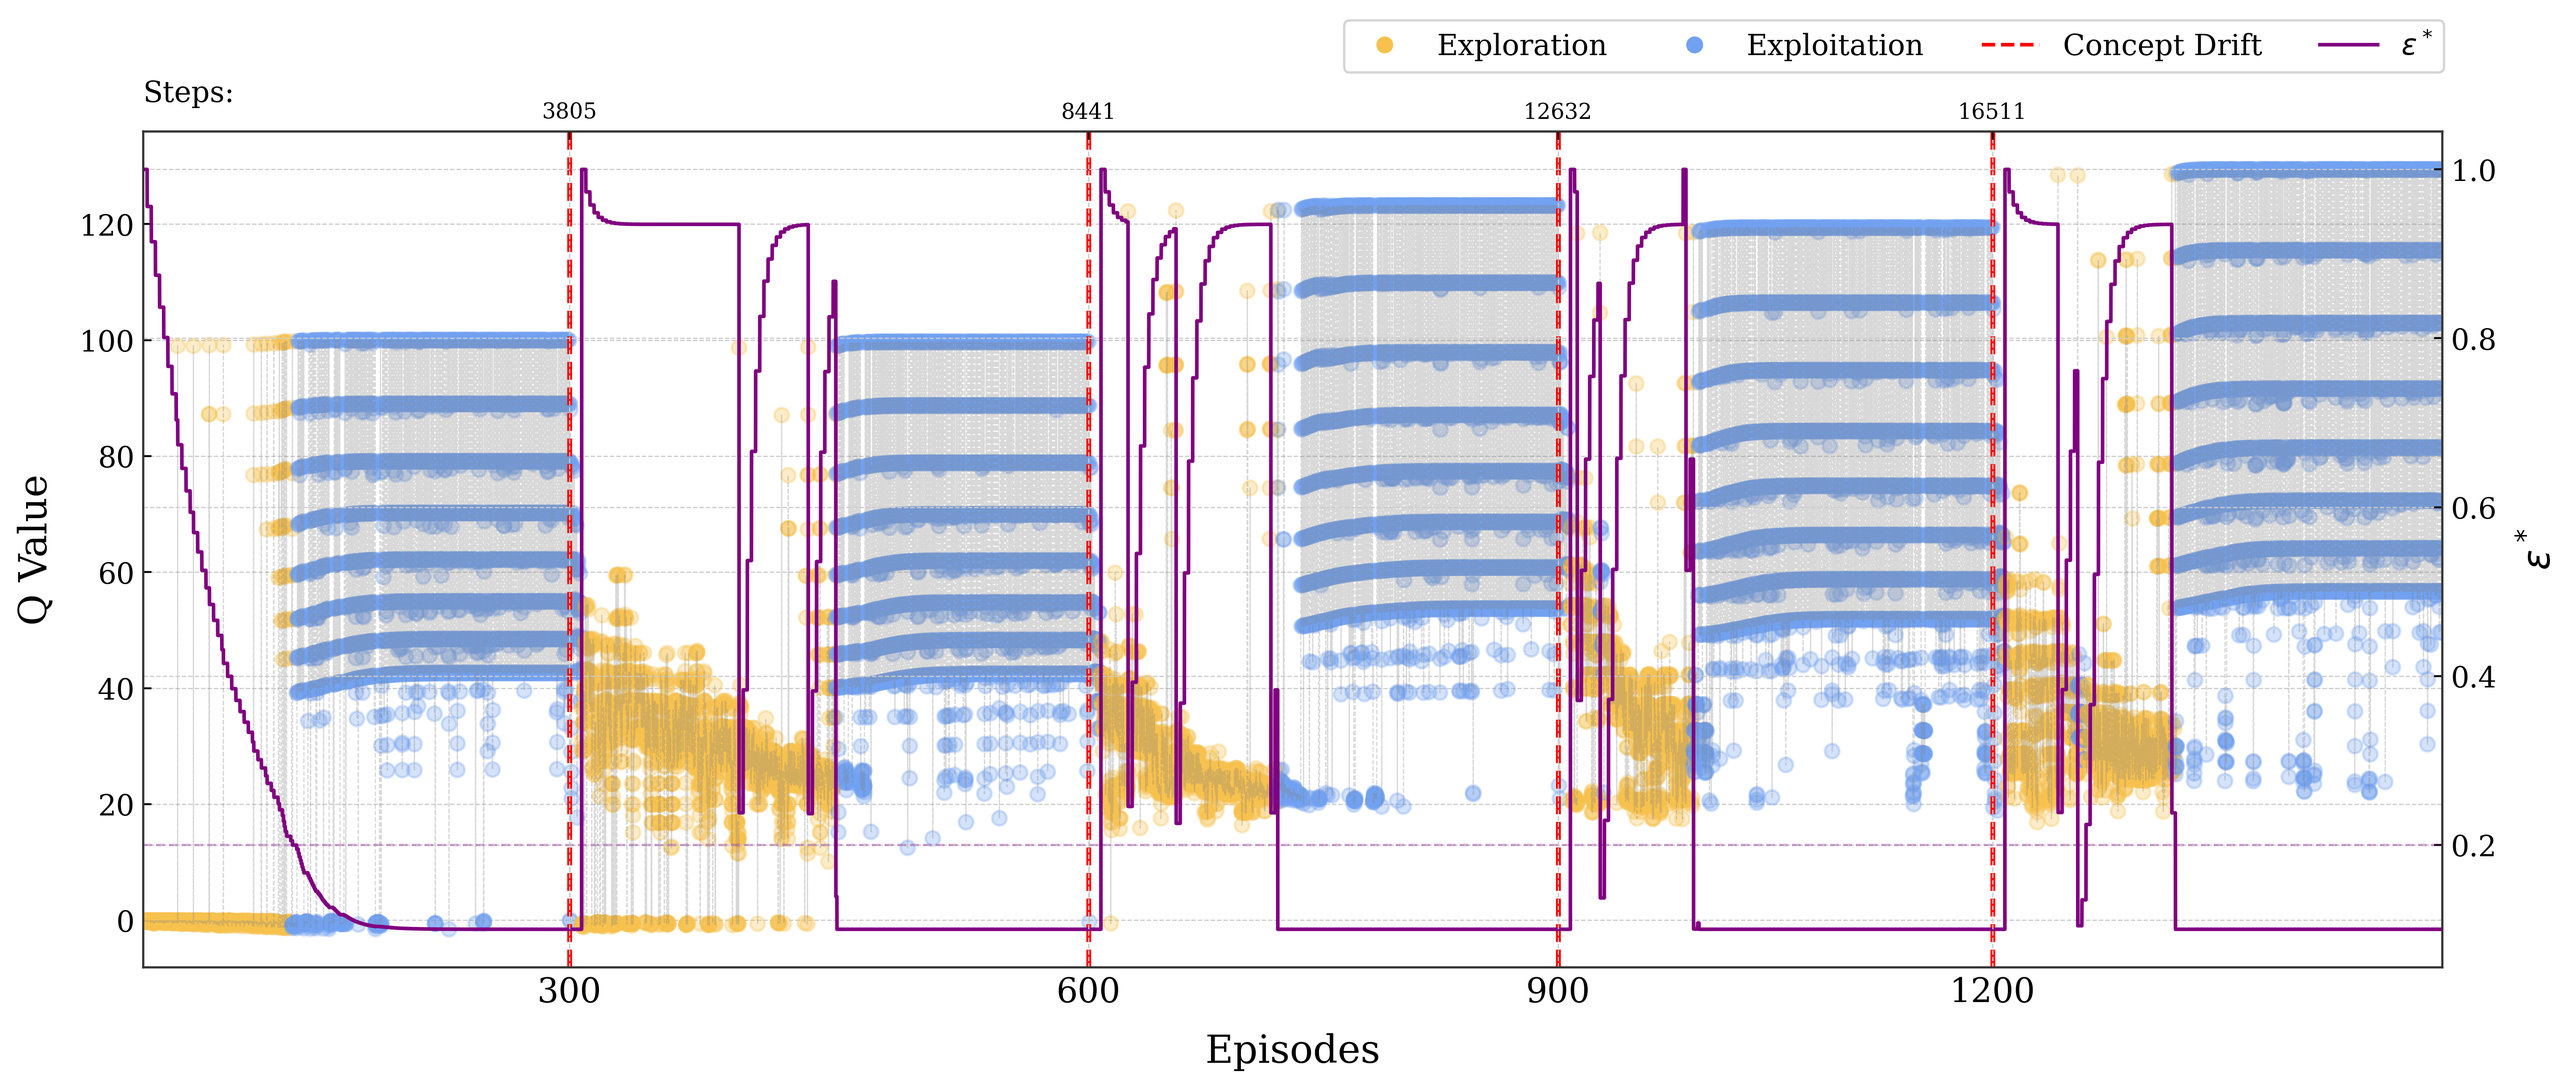
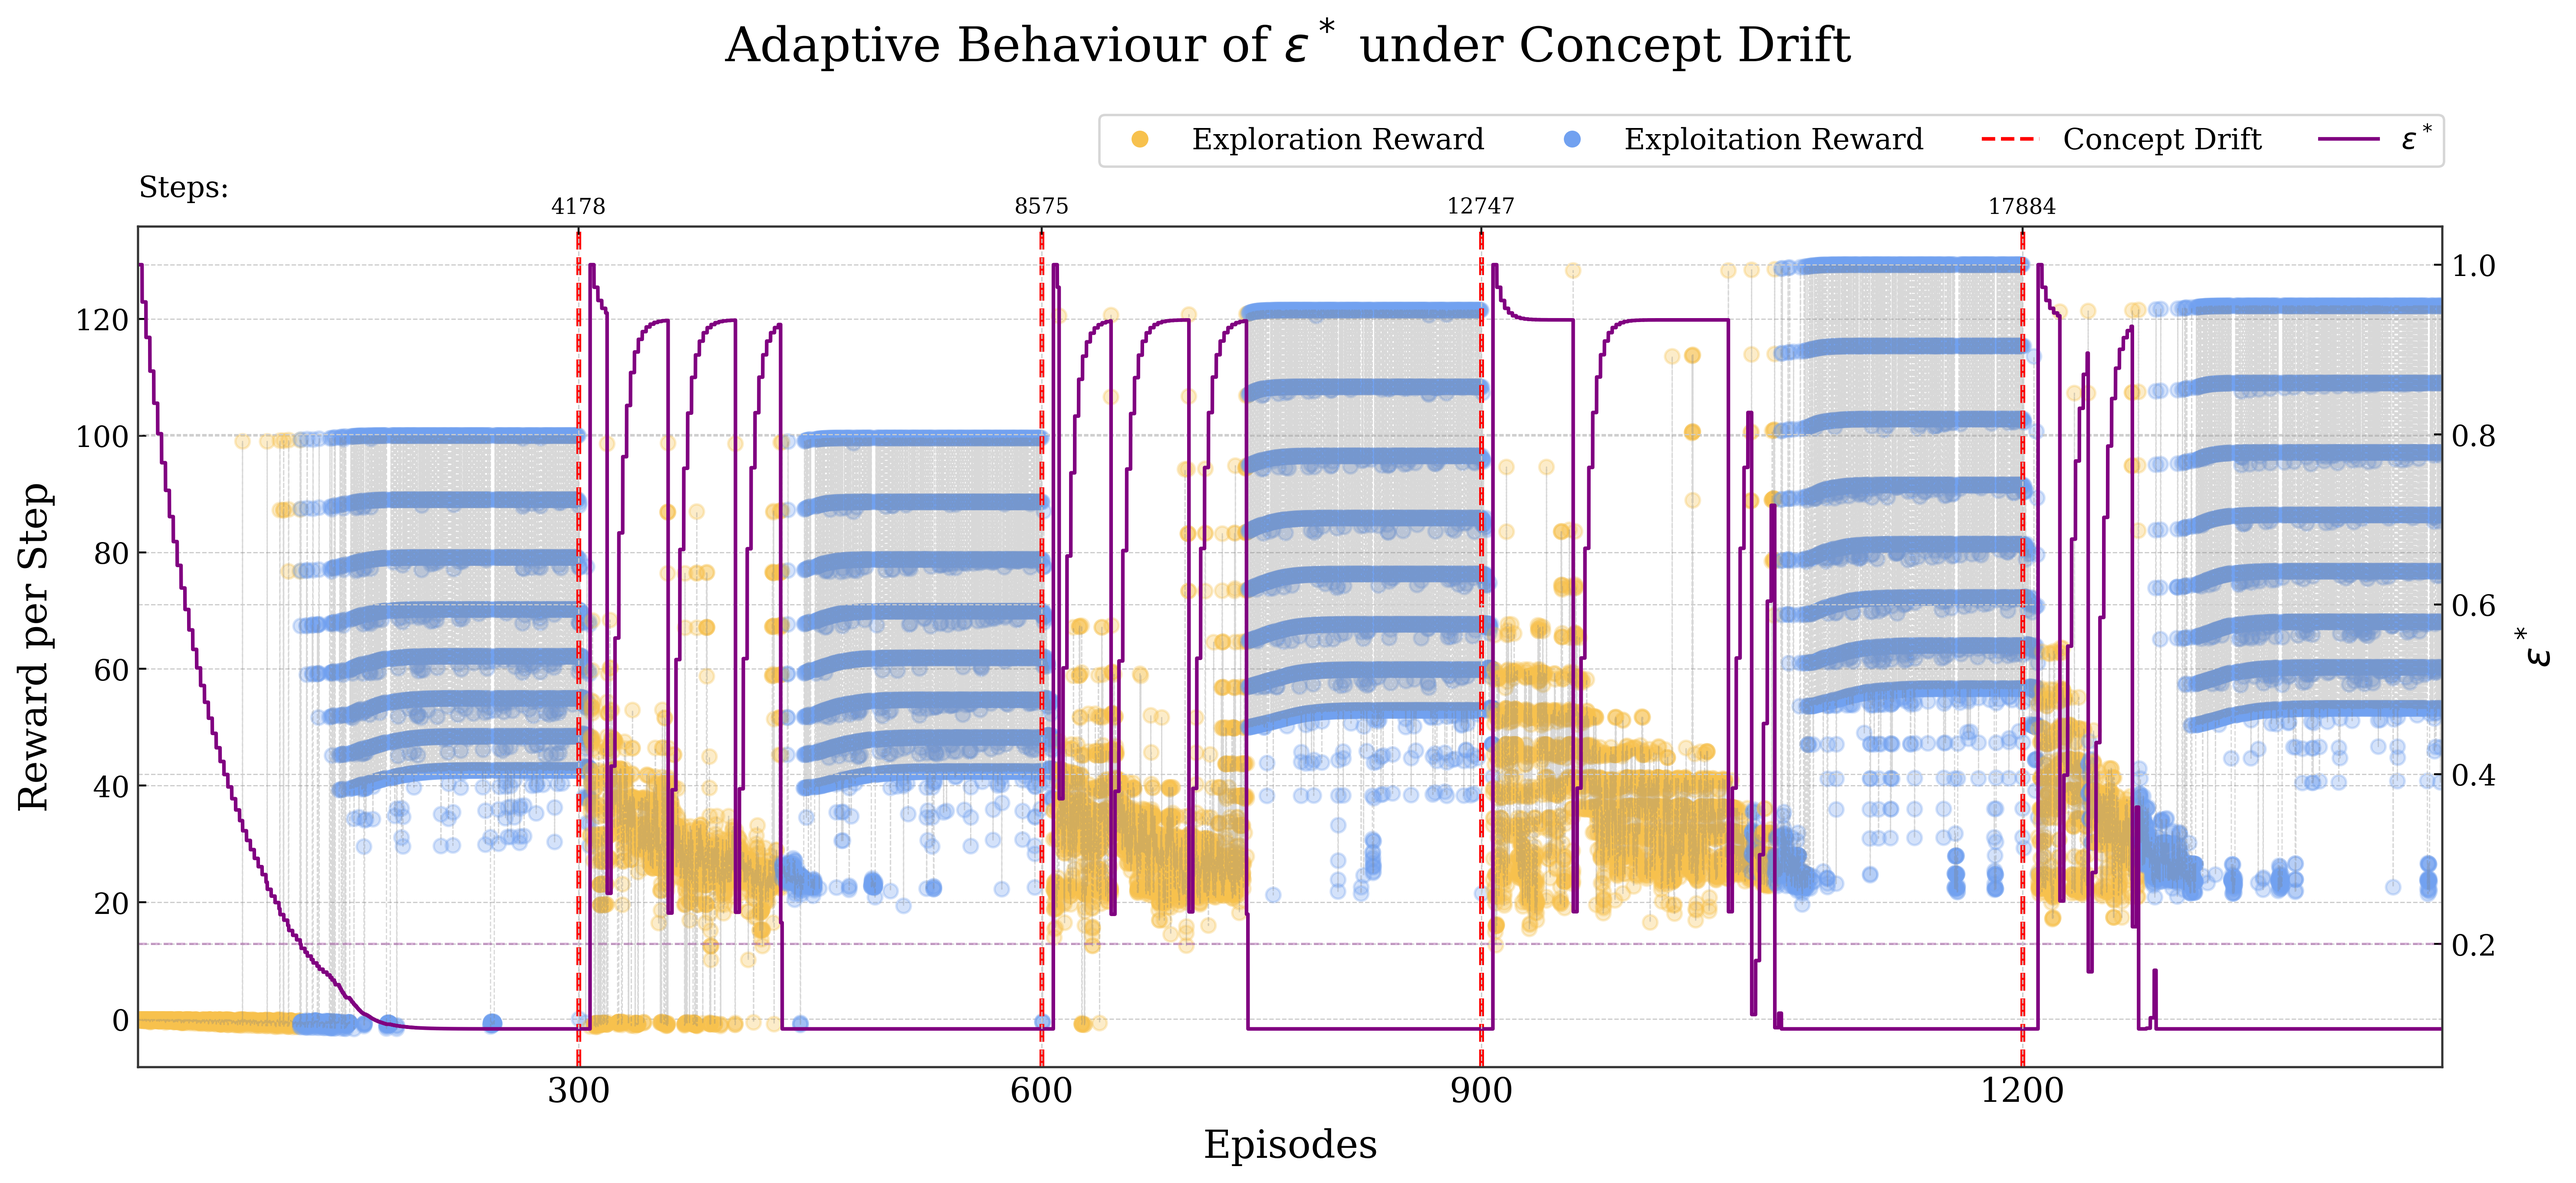
details

diff --git a/background.tex b/background.tex
@@ -57,7 +57,7 @@ may also induce changes in the action space $\mathcal{A}_t$.
 To motivate the adaptation of agent's behavior to changing goals and the acquisition of new actions, 
 we use two scenarios of the Gridworld benchmark as a running example.
 
-Gridworld consists of a rectangular matrix ($9\times 9$ in our case). In Gridworld, every cell is 
+Our Gridworld configuration, consists of a matrix (of $9\times 9$) where every cell is 
 associated with a reward of $-1$, except for a single goal state that has a reward of $+100$ as shown 
 in the left-hand side of \fref{fig:r-change}. The agent begins each episode at the grid's center and may 
 move in four directions: \spy{up}, \spy{down}, \spy{left}, or \spy{right}. Initially, the goal is placed in the 
@@ -79,12 +79,7 @@ changing their mission due to flight plan changes, or changing in leadership for
 Additionally, we consider a scenario of adding walls to the Gridworld, blocking the agent's movement 
 according to its initial set of actions (\fref{fig:q-value-comp2}). For such scenario, we enable the agent 
 to  extended its action space by acquiring new actions that provide additional capabilities to the agent 
-(\ie jumping). Such situations are common in robotics for modular/evolving 
-robots~\cite{eiben20evolving,miras20environmental}, or swarm behavior~\cite{schranz20swarm} where 
-robots acquire new capabilities due to the physical attachment of parts, the possibility of combining 
-actions with nearby robots, or the transfer of responsibilities/behavior between robots. Whichever the 
-case may be, the agent is expected to adapt to these changes and efficiently adjust its policy using 
-the newly acquired behavior.
+(\ie, jumping). Such situations are common in robotics, particularly with modular or evolving robots~\cite{eiben20evolving,miras20environmental}, or in swarm robotics~\cite{schranz20swarm}, where agents acquire new capabilities through the physical attachment of components, the ability to combine actions with nearby robots, or the transfer of responsibilities and behaviors among agents. In all these cases, the agent is expected to adapt to such changes and efficiently update its policy to leverage the newly acquired behaviors.
 
 
 \endinput

diff --git a/introduction.tex b/introduction.tex
@@ -36,7 +36,7 @@ updating agents' learning strategy.
 We validate \adaptiverl with two applications. One application in the context of \ac{RL}, using a 
 standard \ac{RL} benchmark Gridworld, and one application in the context of self-adaptive systems, 
 with a traffic signal control at city intersections. In the first scenario, environment goals are changed 
-back and forth at defined points in the execution to observe the behavior of the environment in leraning 
+back and forth at defined points in the execution to observe the behavior of the environment in learning 
 (or lack there of) new behavior. Additionally, we present a second independent scenario introducing 
 new actions to the agent. In the second scenario we combine the changing goals and introduction of 
 new actions to observe if the agent is effective in detecting both the new goal and action incorporating 
@@ -46,12 +46,7 @@ we underline its suitability for self-adaptive systems, particularly those relyi
 concept drift may occur, making efficient adaptation essential.
 
 %%possibly remove
-This paper is structured as follows: \fref{sec:background} introduces theoretical foundations relevant to 
-our implementation, and a running case study to motivate the problem posit in this work. \fref{sec:implementation} presents the \adaptiverl algorithm.~\fref{sec:validation} describes our validation approach in traffic signal control and discusses results.~\fref{sec:related} reviews related work. Finally, \fref{sec:conclusion} offers conclusions and future research directions.
-
-
-
-
+This paper is structured as follows: \fref{sec:background} introduces theoretical foundations relevant to our implementation, along with a motivating case study that illustrates the problem addressed in this work. \fref{sec:implementation} describes the \adaptiverl algorithm in detail. \fref{sec:validation} presents our validation methodology across the implemented experiments, including traffic signal control, and discusses the results. \fref{sec:related} reviews related work and situates our contribution within the current state of the art. Finally, \fref{sec:conclusion} summarizes our conclusions and outlines directions for future research.
 
 \endinput
 

diff --git a/implementation.tex b/implementation.tex
@@ -2,8 +2,6 @@
 % !TEX root = main.tex
 
 %%
-
-%TODO RAUL: please change y axis on both figures from q-value to "total reward per episode" and for exploration and exploitation labels change them to "exploration reward" and "exploitation reward" - it is not clear what's happening in the graph currently to labelling needs to clarify it
 \section{\ac{RL} Agents with Adaptive Behavior}
 \label{sec:implementation}
 
@@ -44,10 +42,7 @@ adaptation and resilience in non-stationary contexts.
 The first step for agents to adapt their behavior to an evolving environment is to continuously monitor 
 the environment. \ac{RL} environment monitoring is intrinsic through the interaction with the 
 environment, as agents continuously observed rewards after each action execution. To detect 
-changes in the environment, \ie drift, we implement the 
-PH-test~\cite{mignon2017adaptive,networkdynamicrl}. The PH-test calculates the cumulative 
-difference between observed rewards and the running mean reward, incorporating a sensitivity 
-parameter ($\delta$). A concept drift (environmental change) is flagged when the cumulative 
+changes in the environment, \ie drift, we implement the Page-Hinkley Test (PH-test)~\cite{mignon2017adaptive,networkdynamicrl}. The PH-test calculates the cumulative difference between observed rewards and the running mean reward, incorporating a sensitivity parameter ($\delta$). A concept drift (environmental change) is flagged when the cumulative 
 difference surpasses a predefined threshold. Selecting an appropriate threshold value is crucial, as it 
 determines the sensitivity of drift detection. Higher thresholds result in more conservative detection, 
 while lower thresholds increase sensitivity to changes, this value must be selected based on the 

diff --git a/validation.tex b/validation.tex
@@ -113,7 +113,7 @@ highlights the practical advantages of our adaptive mechanisms in dynamic enviro
 
 \fref{fig:q-value-comp} shows the state coverage and accumulated rewards for each of the Gridworld 
 states after the $1,500$ episodes. The figure confirms (similar to the Figures \ref{fig:alpha} and 
-\ref{fig:dynamic-eps}) that,= the agent is able to detect concept drift and learned to behave in the light 
+\ref{fig:dynamic-eps}) that, the agent is able to detect concept drift and learned to behave in the light 
 of new environment conditions. In the heatmap, lighter colors represent a higher reward, showing how 
 the lower right part of the grid has been explored successfully. Moreover, with or experiment design 
 confirms the benefits of not forgetting, as after the second goal change, the visited states continue to 
@@ -193,7 +193,7 @@ This traffic-signal control case study confirms that \adaptiverl can effectively
   resulting in resource-efficient policies.
 \end{enumerate}
 
-This enables traffic controllers to update phase timings in real time, i.e., to be self-adaptive, 
+This enables traffic controllers to update phase timings in real time, \ie, to be self-adaptive, 
  as \adaptiverl allows continuous automated adjustment to changing 
 traffic patterns without manual retuning or agent retraining.
 

diff --git a/main.tex b/main.tex
@@ -56,7 +56,7 @@ without full retraining. \adaptiverl leverages proactive environment monitoring 
 detection to trigger dynamic adjustment of learning and exploration parameters only when needed, 
 while preserving prior policy knowledge to mitigate catastrophic forgetting. Additionally, \adaptiverl 
 supports seamless incorporation of new actions into the agent’s action space. We validate our approach 
-on a standard RL benchmark with shifting reward functions and the introduction of a new action. 
+on a standard RL benchmark with shifting reward functions and the introduction of a new actions. 
 Additionally we validate our approach in a realistic traffic signal control application to manage road 
 intersections. The results demonstrate the proposed approach evidences superior convergence 
 speed, resource efficiency, and continuous adaptation to evolving conditions, with respect to the 

diff --git a/related.tex b/related.tex
@@ -16,7 +16,7 @@ and~\citet{mignon2017adaptive} introduce adaptive implementations of the classic
 $\varepsilon$-greedy policy, highlighting the effectiveness of dynamically adjusting $\varepsilon$ values 
 rather than maintaining them statically.~\citet{mignon2017adaptive} demonstrate how an adaptive 
 approach enhances performance in both stationary and non-stationary environments by employing 
-the Page-Hinkley Test (PH-test) for detecting environmental concept drifts.
+the PH-test for detecting environmental concept drifts.
 
 Building on the exploration-exploitation dilemma, \citet{norman2024firstexploreexploitmetalearningsolve} 
 propose First-Explore, a meta-\ac{RL} approach utilizing distinct policies dedicated to exploration 
